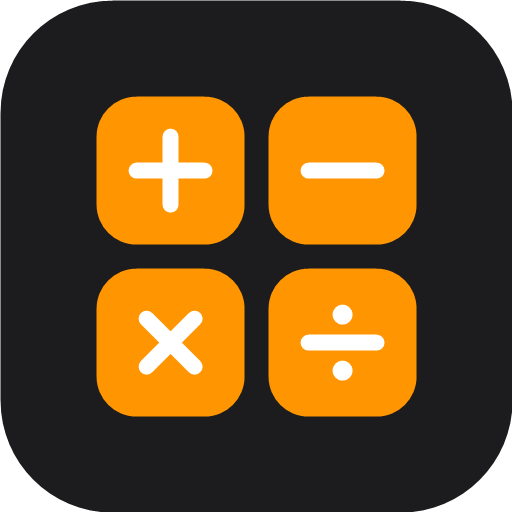
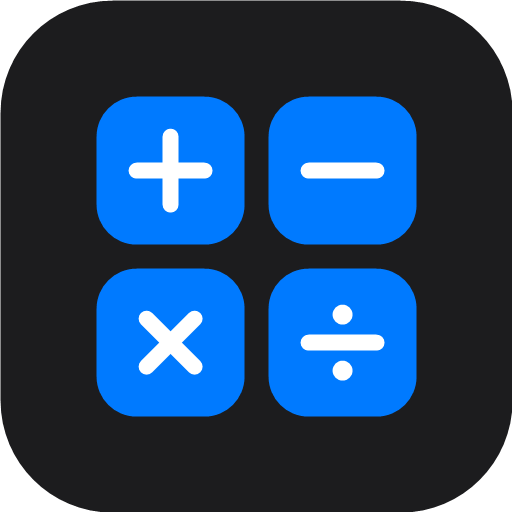
앱 아이콘을 파란색으로 변경
- 버튼 색과 맞춰 아이콘 타일을 #007aff로 변경
- 캐시 버전 v3로 올려 설치된 앱에도 반영

Changed region(s): [[0.1875, 0.1875, 0.8125, 0.8125]]

diff --git a/sw.js b/sw.js
@@ -5,7 +5,7 @@
 //   (v1 → v2) 그래야 사용자 기기에 저장된 옛 파일이 새 파일로 바뀝니다.
 // =====================================================================
 
-const CACHE_VERSION = 'v2';
+const CACHE_VERSION = 'v3';
 const CACHE_NAME = `pwa-calculator-${CACHE_VERSION}`;
 
 // 저장해 둘 파일 목록 (GitHub Pages 하위 폴더에서도 동작하도록 ./ 상대경로)
